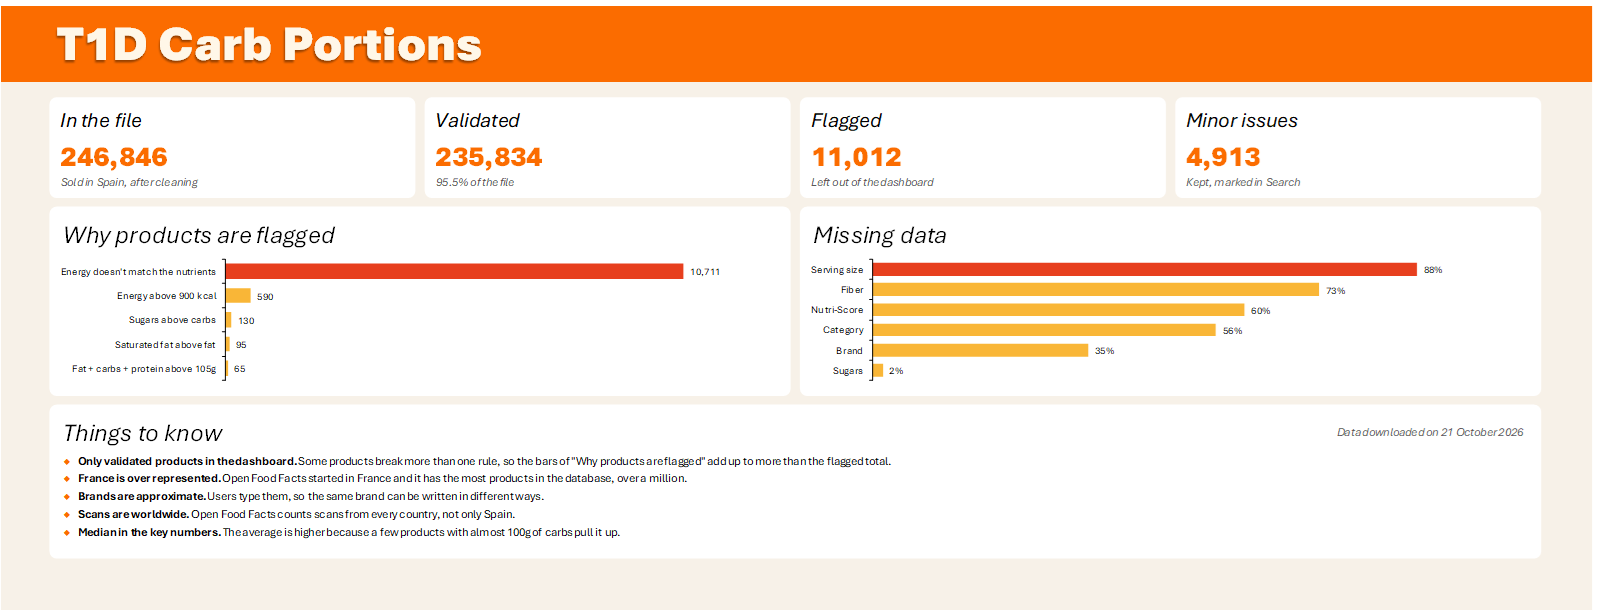
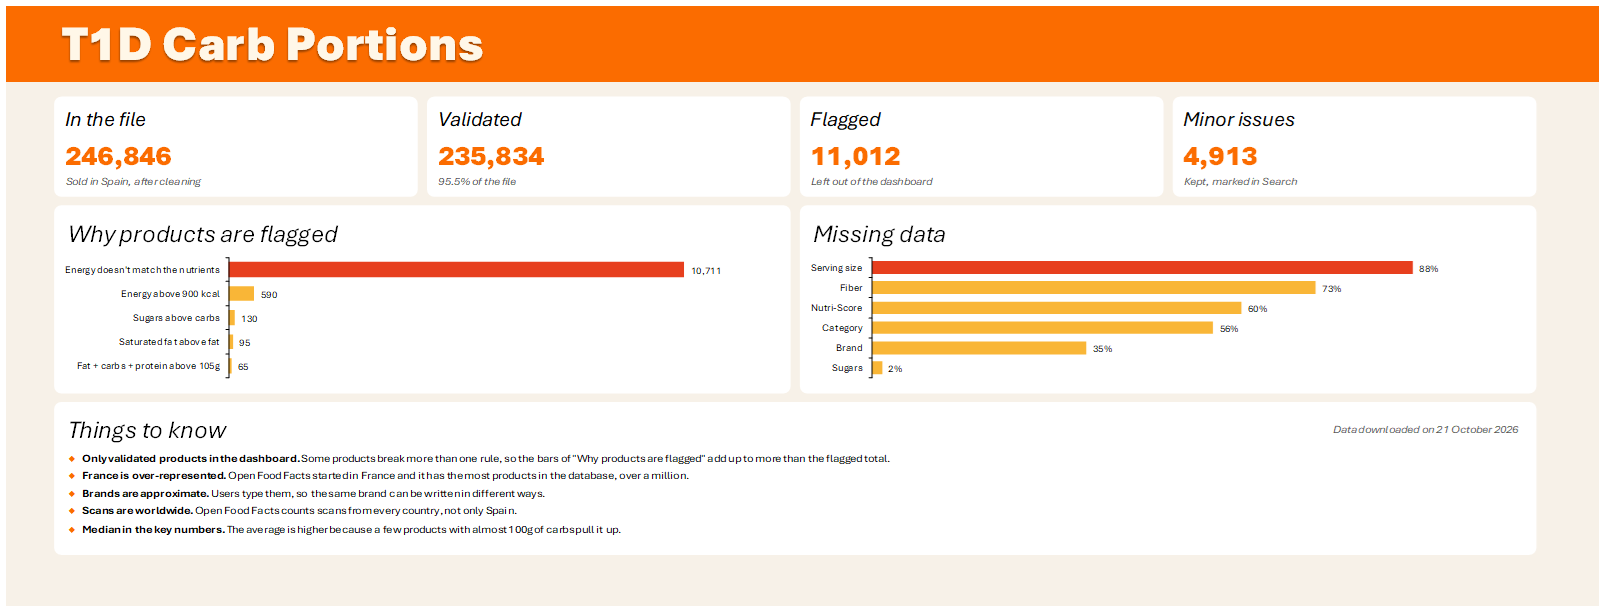
Document Home sheet and new zooms

diff --git a/docs/workbook_structure.md b/docs/workbook_structure.md
@@ -3,7 +3,16 @@
 
 ## Order of the sheets
 
-Search, Calculator, Analysis and Quality, with orange tabs, are for the user. Settings and Data, with grey tabs, are technical. AnalysisData is hidden (right click on a tab > Unhide). All the sheets share the palette, the fonts and the title band (D25).
+Home is the first sheet and the workbook always opens on it. Search, Calculator, Analysis and Quality, with orange tabs, are for the user. Settings and Data, with grey tabs, are technical. AnalysisData is hidden (right click on a tab > Unhide). All the sheets share the palette, the fonts and the title band (D25).
+
+
+## Home
+
+Cover of the workbook: the title band, one line about the project and one card per sheet.
+
+- **Cards:** Search, Calculator, Analysis and Quality in orange, Settings and Data in grey, like their tabs. Each card has the name of the sheet, one line about it and takes you to it.
+- **Pictures:** each card except Data has a photo of its sheet (*Shot Search*, *Shot Calculator*, and so on), all the same size.
+- **Zoom:** fits columns A to AF to the window. Code in *vba/Home.cls*.
 
 
 ## Search
@@ -48,9 +57,10 @@ Adds up the carbs and portions of a meal from the barcode and the amount of each
 - **Inputs (beige cells):** *Barcode* (formatted as text) and *Amount (g or ml)*. The barcode can be copied from Search with Ctrl + C and pasted with Ctrl + Shift + V. *Amount* only accepts numbers of 0 or more.
 - **Product, Carbs (g), Portions (white cells):** filled by formulas. Names longer than 36 characters end in "…".
 - **Screen:** total carbs and portions of the meal, text boxes linked to K1 and K2 (hidden columns).
-- **Keys:** C empties the meal (*ClearMeal*). ← removes the last food (*RemoveLast*). Code in *vba/Calculator.bas*.
+- **Keys:** C empties the meal (*ClearMeal*). ← removes the last food (*RemoveLast*). Code in *vba/modCalculator.bas*.
 - **Messages:** each column shows a short message when a cell is selected (data validation).
 - **How to use:** card on the left with the steps.
+- **Zoom:** 90% when the sheet is opened. Code in *vba/Calculator.cls*.
 
 Formulas: *docs/workbook_formulas.md*. Decisions: D14, D25.
 
@@ -67,7 +77,7 @@ Dashboard of the Spanish market for a person with type 1 diabetes. It fits in on
 - **Slicers:** in a strip at the bottom: carbs per 100 g, brand, says sugar free, says whole grain and says gluten free. The dashboard shows the whole market by default. A slicer doesn't filter the chart split by its own field (D22).
 - **Boxes:** each card and chart sits on its own white box. The charts have no title or background; the title is a text box inside the box.
 - **Most scanned list:** linked picture of the top 10 pivot table in AnalysisData, so it changes with the slicers.
-- **Zoom:** when the sheet is opened, the zoom fits the dashboard to the width of the window. Code in *vba/Analysis.cls*.
+- **Zoom:** 80% when the sheet is opened. Code in *vba/Analysis.cls*.
 - **Slicer events:** when a slicer changes, the labels chart moves its top line to the chosen carb range and the doughnut greys out the brands not chosen. Code in *vba/AnalysisData.cls*.
 
 Decisions: D18 to D23.
@@ -82,7 +92,7 @@ How far the data can be trusted (D24).
 - **Missing data:** share of products without each field.
 - **Things to know:** notes about the limits of the data, and the download date.
 - **Calculations:** formulas in the hidden columns AH:AL. The charts read them.
-- **Zoom:** fits columns A to AF to the window. Code in *vba/Quality.cls*.
+- **Zoom:** 90% when the sheet is opened. Code in *vba/Quality.cls*.
 
 
 ## Settings

diff --git a/docs/decisions.md b/docs/decisions.md
@@ -522,7 +522,7 @@ The dashboard has twelve blocks: five key numbers, six visuals and the slicers. 
 One screen, with all the blocks on a grid of equal boxes.
 
 - ***Grid:*** columns A to AF with the same width. The content goes from B to AE, with A and AF as margins. A key number card is the unit: the big visuals are two or three cards wide, with the same gap between all the boxes.
-- ***One screen:*** the dashboard ends at row 45. When the sheet is opened, a macro fits columns A to AF to the width of the window.
+- ***One screen:*** the dashboard ends at row 45. When the sheet is opened, a macro sets the zoom to 80% (D25).
 - ***Key number cards:*** title, number and, when needed, a subtitle with the unit or the limit. All the cards have the same position for each part.
 - ***Slicers at the bottom:*** the dashboard shows the whole market by default. The user filters only if they want to.
 - ***Titles outside the charts:*** each chart sits on a box without title or background. The title is a text box in the box, so all titles are at the same height and with the same font. The charts have no subtitle.
@@ -584,11 +584,14 @@ Everything is calculated with formulas in hidden columns of the same sheet (AH:A
 
 Every sheet uses the same palette (orange, yellow, beige), Aptos for text and Aptos Black for titles and numbers.
 
+- **Home:** the workbook opens on a cover with one card per sheet, each with a photo of the sheet and a line about what it does. Someone who opens the file for the first time knows where to go without reading the README.
+
 - **Calculator:** it looks like a calculator. A screen with the total carbs and portions, the ten rows of the meal, and two keys: C clears the meal and ← removes the last food. The cells the user types in are beige and the ones Excel fills are white. The total row of the table was removed: the screen shows the totals.
 - **Search:** the controls on top, the results below, and a card on the left with how to search and what the Data column means. The page buttons replace the spin button, which couldn't be styled.
 - **Settings:** one card per setting. The values are text boxes linked to their cells, because cells can't have round corners.
 - **Data:** only a table style with the colours of the workbook. Nothing else is touched, because every other sheet reads this table.
-- **Order of the tabs:** the sheets for the user first and in orange (Search, Calculator, Analysis, Quality), the technical ones after and in grey (Settings, Data). AnalysisData is hidden, but anyone can unhide it.
+- **Order of the tabs:** Home first, then the sheets for the user in orange (Search, Calculator, Analysis, Quality), and the technical ones after and in grey (Settings, Data). AnalysisData is hidden, but anyone can unhide it.
+- **Zoom:** each sheet opens at a fixed zoom, chosen by eye: 80% for Search and Analysis, 90% for Calculator and Quality. Fitting the zoom to the window gave a different size on each screen and sometimes failed. Only Home still fits columns A to AF to the window, because it is only cards.
 
 Discarded: freezing the headers of Search. Excel draws the frozen line across the whole window, and a page has 100 results at most.
 

diff --git a/README.md b/README.md
@@ -6,7 +6,7 @@
   An Excel workbook to count carbs in food sold in Spain, built on the Open Food Facts database.
 </p>
 
-People with type 1 diabetes count the carbs of everything they eat. In Spain they count in portions: one portion is 10g of carbs. Labels give carbs per 100g, so there is always some maths to do, and many products are hard to find.
+People with type 1 diabetes count the carbs of everything they eat. In Spain they count in portions, one portion is 10g of carbs. Labels give carbs per 100g, so there is always some maths to do, and many products are hard to find.
 
 I built this workbook to make that easier: find any product, add up a meal, and see what the Spanish market looks like in terms of carbs. It is also my first full data project, so I cleaned, checked and documented everything as if someone else had to maintain it.
 
@@ -20,7 +20,7 @@ Type a product, a brand or a barcode and you get every match with its photo, nut
 
 Behind the search box there are 246,846 products. Names and brands are stored a second time without accents or capitals, so "maria", "María" and "MARIA" find the same products. Results are sorted so the useful ones come first: products with reliable data, then products where all your words are in the name (not only in the brand), then the most scanned ones. They come in pages of 20, 50 or 100, because every photo is downloaded from the internet and showing thousands at once took minutes.
 
-Every product also says how much you can trust its numbers: ✓ when they look right, *Minor issue* when Open Food Facts has small doubts, and ⚠ *Check label* when they don't add up. Flagged products are not hidden, because someone looking for their own barcode should still find it.
+Every product also says how much you can trust its numbers: ✓ when they look right, *Minor issue* when Open Food Facts has small doubts, and &#9888;&#xFE0E; *Check label* when they don't add up. Flagged products are not hidden, because someone looking for their own barcode should still find it.
 
 ![Search](screenshots/search.png)
 
@@ -108,7 +108,7 @@ Open it with macros enabled and start from **Home**: each card takes you to a sh
 
 **Validated** → products whose nutrients add up. The dashboard only uses these.
 
-**Flagged** → products whose numbers don't add up, for example more than 900 kcal per 100g. Search shows them with ⚠ *Check label*.
+**Flagged** → products whose numbers don't add up, for example more than 900 kcal per 100g. Search shows them with &#9888;&#xFE0E; *Check label*.
 
 **Minor issue** → the numbers add up, but Open Food Facts has small doubts about them.
 
